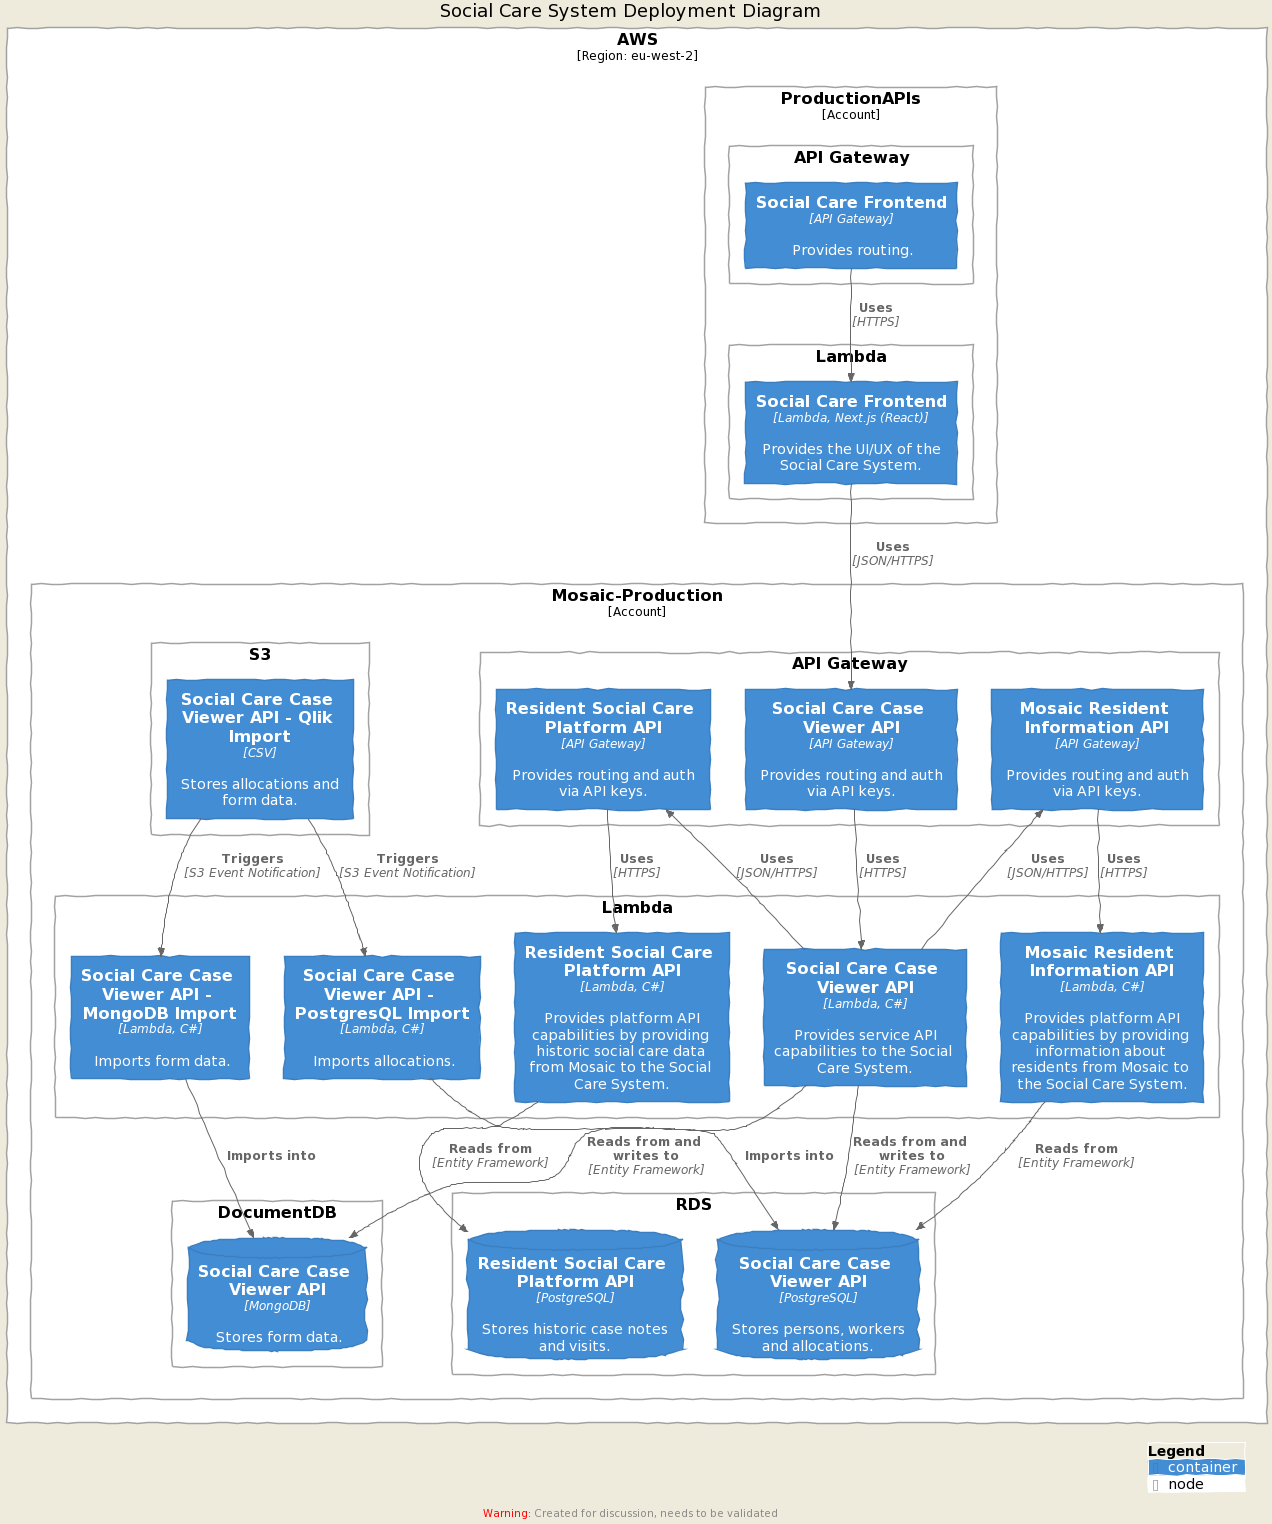
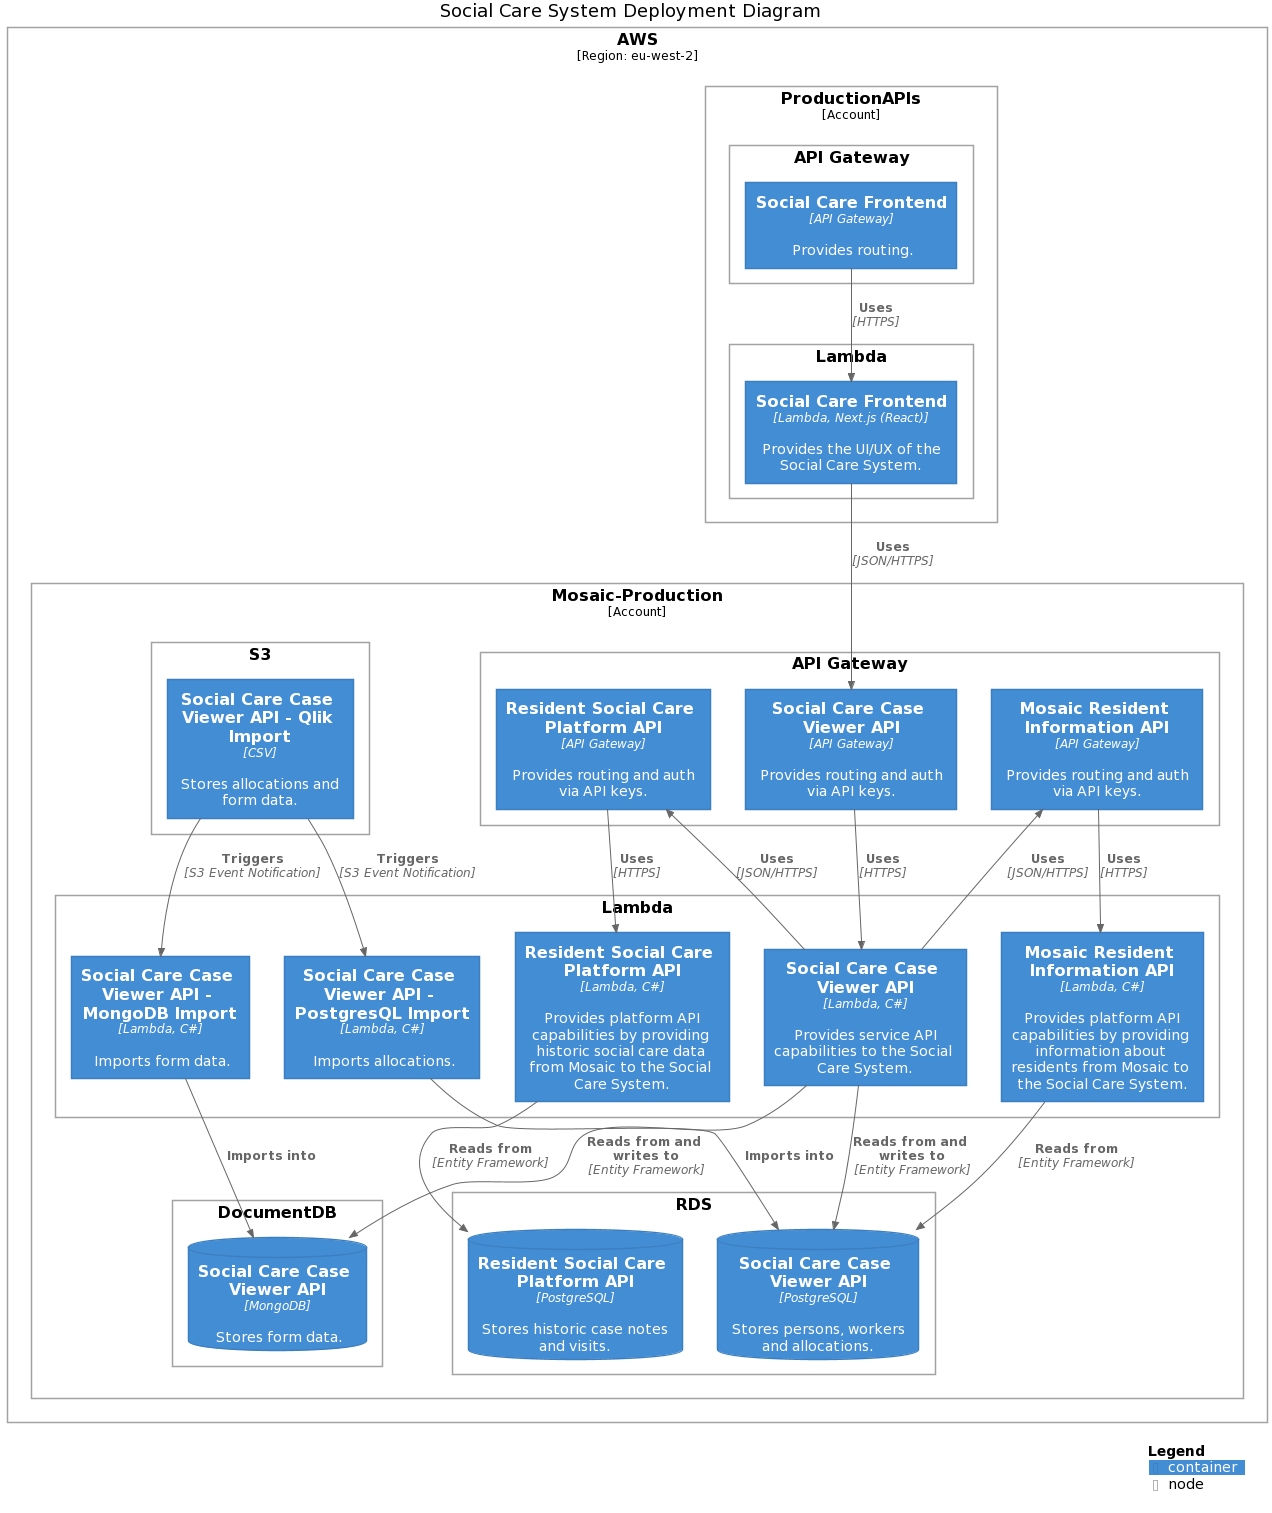
Remove LAYOUT_AS_SKETCH for deployment diagram
This is now in action!

Changed region(s): [[0.0, 0.0, 1.0, 1.0], [0.1226, 0.4038, 0.3679, 0.5902]]

diff --git a/README.md b/README.md
@@ -42,8 +42,6 @@ The [container diagram](https://c4model.com/#ContainerDiagram) shows the interac
 
 ## Deployment Diagram
 
-> Note: This is not representative of current deployment but will be soon.
-
 The [deployment diagram](https://c4model.com/#ContainerDiagram) shows the key aspects of the deployed system in AWS.
 
 ![Deployment Diagram](images/deployment.png)
